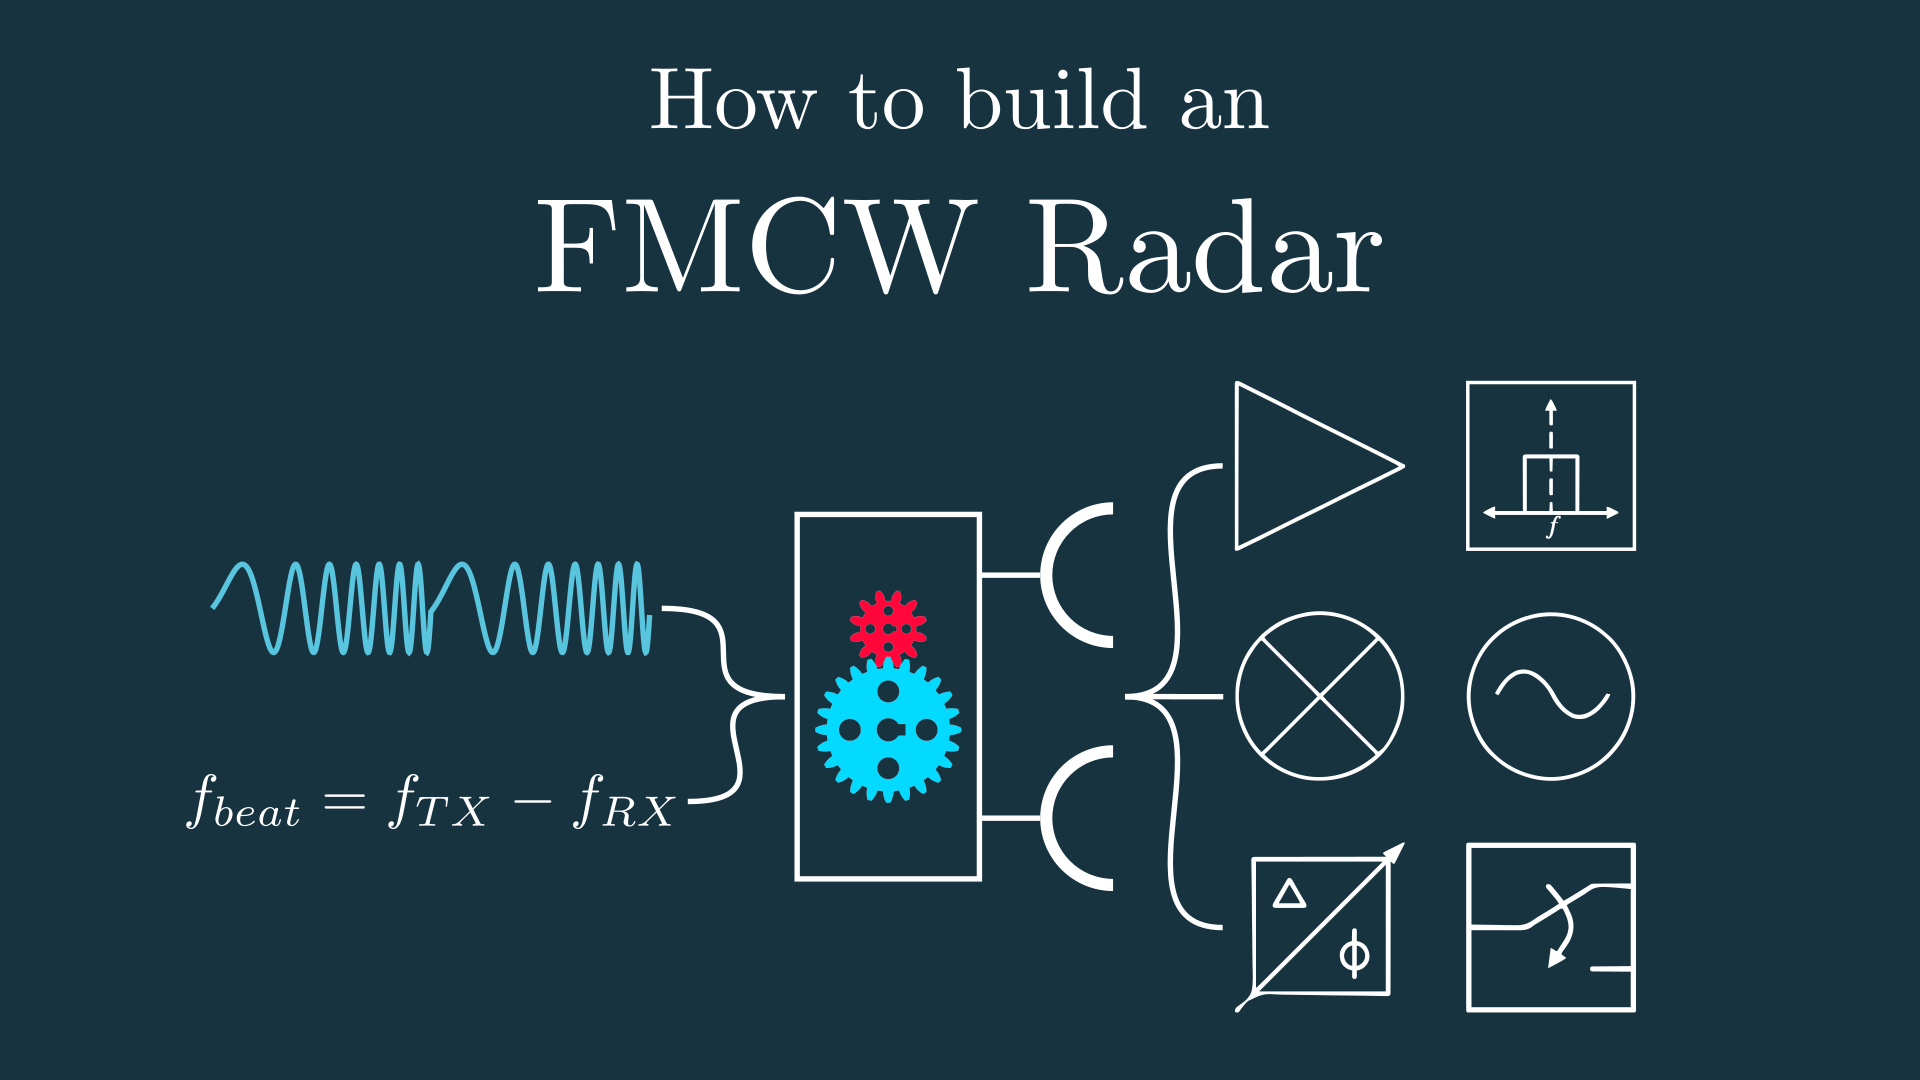
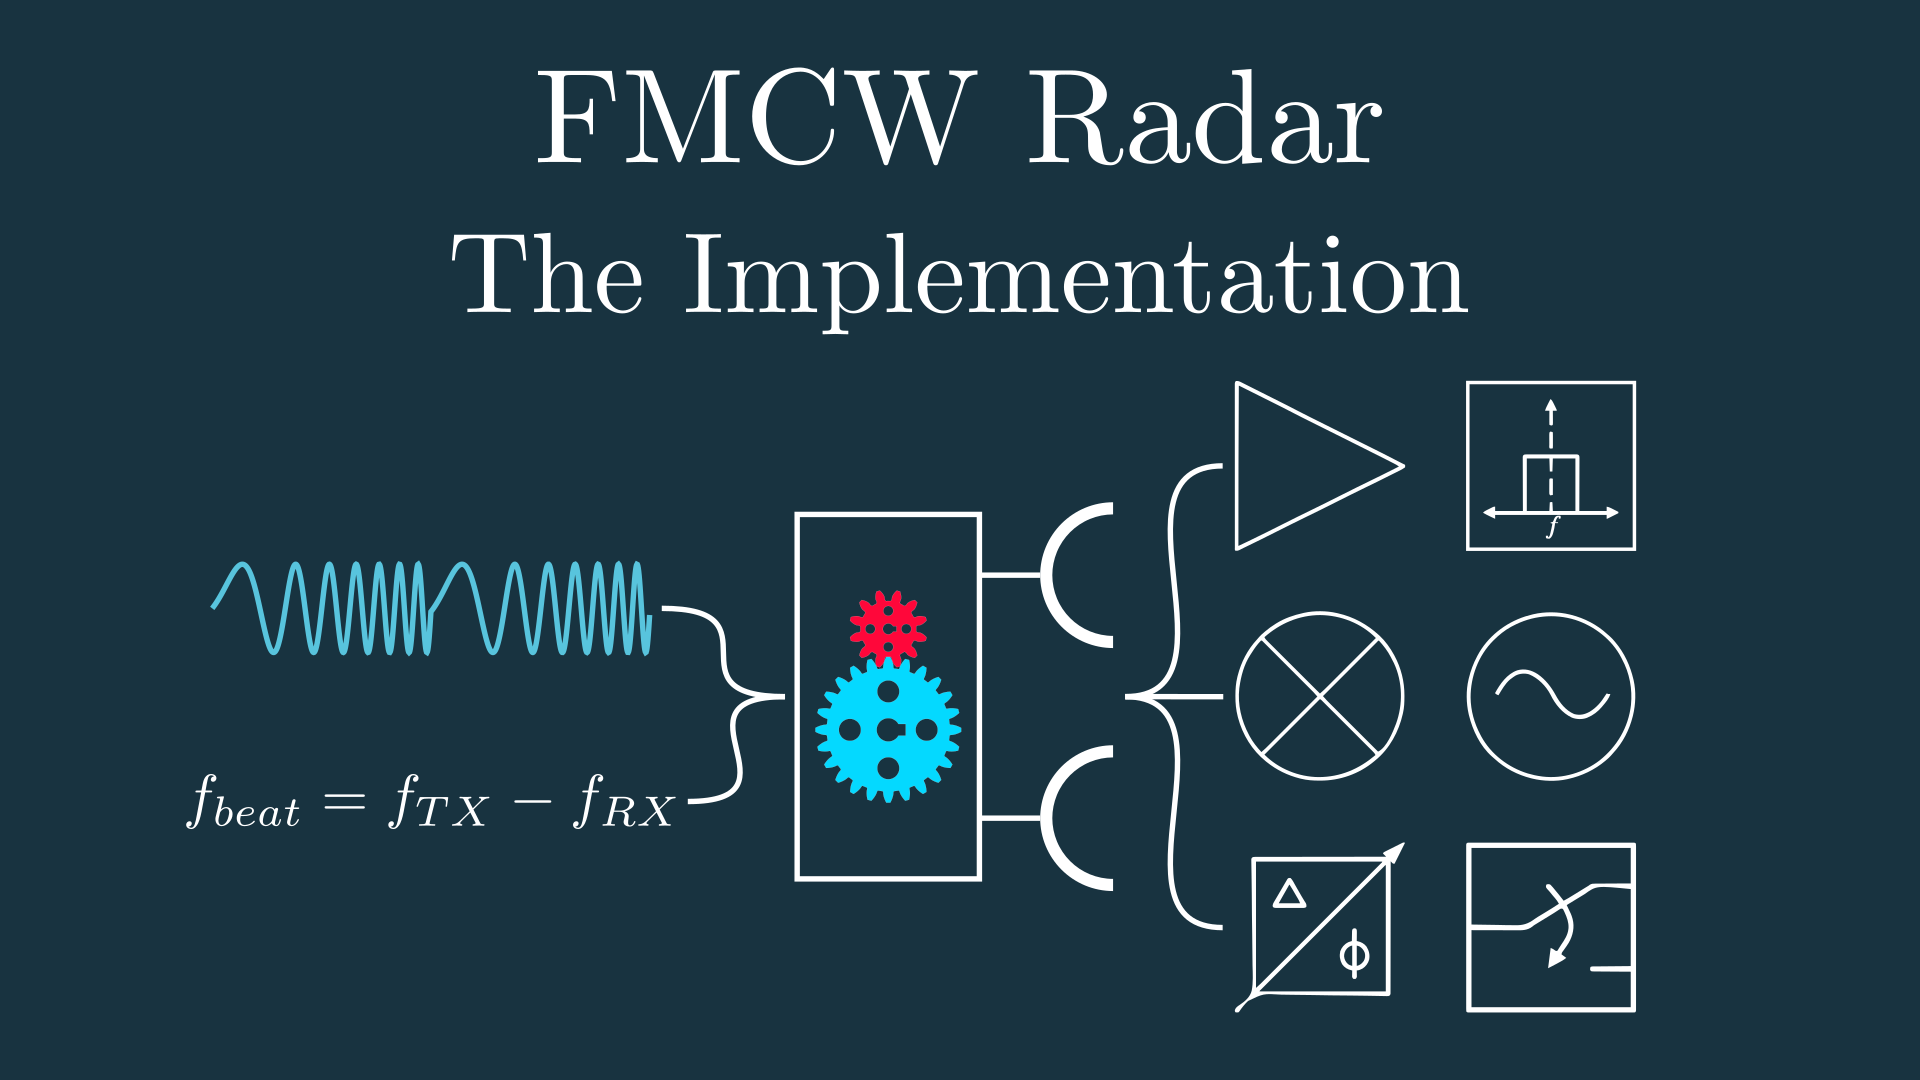
02 uploaded

Changed region(s): [[0.2188, 0.1833, 0.7812, 0.3056], [0.2812, 0.0611, 0.7188, 0.1528]]

diff --git a/02_fmcw_implementation/fmcw_implementation.py b/02_fmcw_implementation/fmcw_implementation.py
@@ -10573,8 +10573,10 @@ class Thumbnail(Scene):
 
         Group(*self.mobjects).scale(0.9).to_edge(DOWN)
 
-        how_to = Tex("How to build an").scale(1.3).to_edge(UP)
-        fmcw_tex = Tex("FMCW Radar").scale(2).next_to(how_to, DOWN, MED_LARGE_BUFF)
+        how_to = Tex("FMCW Radar").scale(2).to_edge(UP)
+        fmcw_tex = (
+            Tex("The Implementation").scale(1.7).next_to(how_to, DOWN, MED_LARGE_BUFF)
+        )
 
         self.add(how_to, fmcw_tex)
 

diff --git a/02_fmcw_implementation/media/Tex/b0e7c553a26d99fa.tex b/02_fmcw_implementation/media/Tex/b0e7c553a26d99fa.tex
@@ -1,0 +1,9 @@
+\documentclass[preview]{standalone}
+\usepackage[english]{babel}
+\usepackage{amsmath}
+\usepackage{amssymb}
+\begin{document}
+\begin{center}
+The Implementation
+\end{center}
+\end{document}

diff --git a/02_fmcw_implementation/media/Tex/cfcdba4c95d49a9e.tex b/02_fmcw_implementation/media/Tex/cfcdba4c95d49a9e.tex
@@ -1,0 +1,9 @@
+\documentclass[preview]{standalone}
+\usepackage[english]{babel}
+\usepackage{amsmath}
+\usepackage{amssymb}
+\begin{document}
+\begin{center}
+Implementation of
+\end{center}
+\end{document}

diff --git a/README.md b/README.md
@@ -3,3 +3,23 @@ Code for my videos focused on radar and RF engineering published to https://www.
 
 ## License
 The code and outputs in this repository are only for reference and not for use without permission. You probably wouldn't want to anyway - the code is pretty messy...
+
+## [01 - What is FMCW Radar and why is it useful?](https://youtu.be/xUGWHGjCtII)
+
+This video goes over range estimation with FMCW radar and gives a little insight into why you might want to use it over a traditional pulsed radar. 
+
+There are many more trade-offs between the two that I don't discuss here, but this should give you a basic understanding of the technology. 
+
+I'll use this as a basis for future videos on FMCW radar. There is a ton to cover and I'm excited to dive into those animations and explanations! 
+
+![thumbnail](./01_fmcw/media/images/fmcw/thumbnails/comparison.png)
+
+## [02 - How do you build an FMCW Radar?](https://youtu.be/MlcydOwmRIY)
+
+Have you ever looked at an FMCW radar block diagram and had no idea what the components do? 
+
+In this video I attempt to clear this up a bit by going through a simplified block diagram and explaining the components, step-by-step. The video then takes a short detour into the digital domain where I briefly touch on the expansive world of radar signal processing. In this case I literally only go into any depth about the FFT, but I mention some of the other very exciting places DSP can take you! 
+
+There are so many other applications and implementations of FMCW radar that this video could not possibly cover, so take all this information with a grain of salt and hopefully you'll go on to explore it further. 
+
+![thumbnail](./02_fmcw_implementation/media/images/fmcw_implementation/Thumbnail_Option_1.png)
